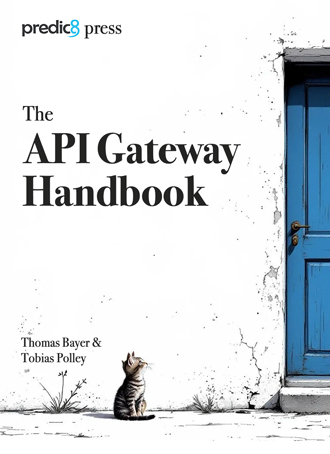
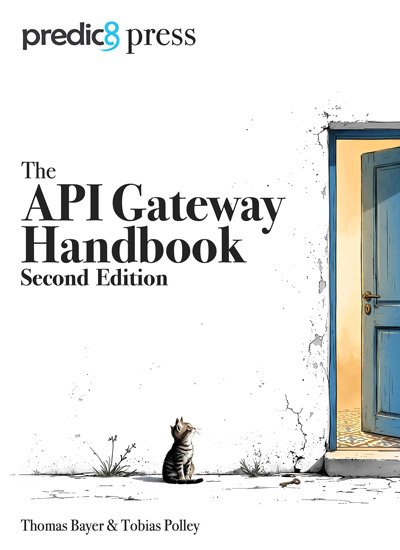
Second edition of the API Gatew… (#2872)
* Update README.md: Add details for the second edition of the API Gateway eBook

- Highlighted new chapters, improved content, and expanded examples in the updated eBook.
- Updated download link to the second edition PDF.
- Refined description for improved clarity and engagement.

* Fix typo in README: Corrected "Seconded" to "Second" in API Gateway eBook section.

diff --git a/README.md b/README.md
@@ -88,13 +88,15 @@ Authenticated requests to '/token' return a signed JWT in which the username fro
 
 This example is intentionally minimal, but it highlights the basic building blocks: authenticate the caller, shape the token payload, and sign the result. From there, you can extend it with additional claims, custom logic, or stricter policies to implement tailored API security flows.
 
-## API Gateway eBook
+## API Gateway eBook (New Second Edition)
 
-Learn how API Gateways work with real-world examples and insights into Membrane.
+Get the latest version of the *API Gateway eBook*. The **second edition** includes new chapters, improved material, and additional examples across more than 320 pages.
+
+Learn how API Gateways work through practical scenarios and real-world examples, including insights based on the Membrane API Gateway.
 
 ![API Gateway eBook Cover](docs/images/api-gateway-ebook-cover.jpg)
 
-[Download instantly](https://www.membrane-api.io/ebook/API-Gateway-Handbook-v1.0.0.pdf) — **no registration** required.
+[Download](https://www.membrane-api.io/ebook/API-Gateway-Handbook-v2.0.0.pdf) instantly. **No registration** required.
 
 ## Features
 
